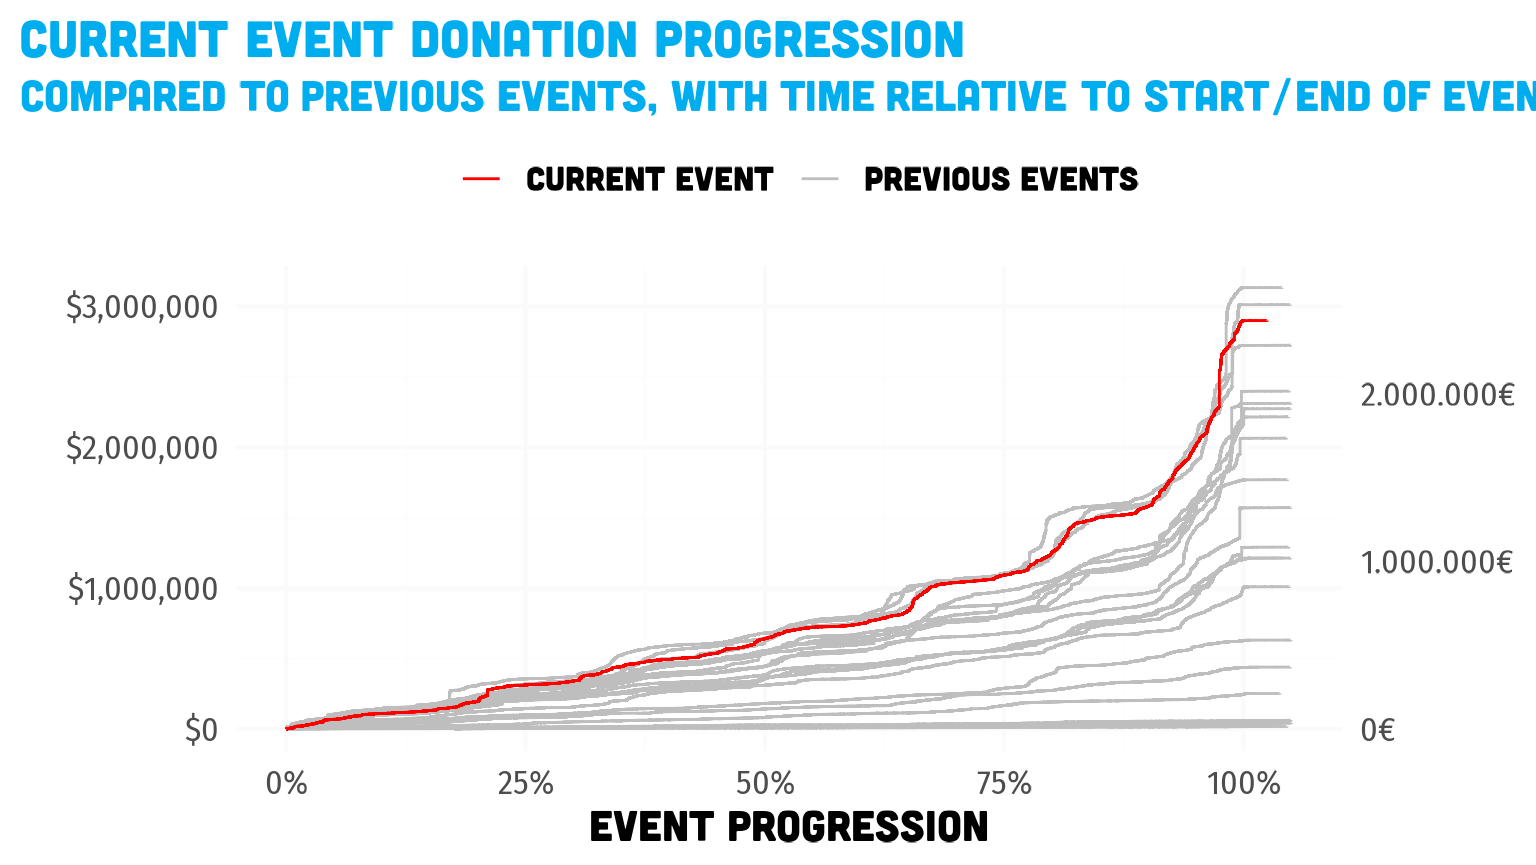
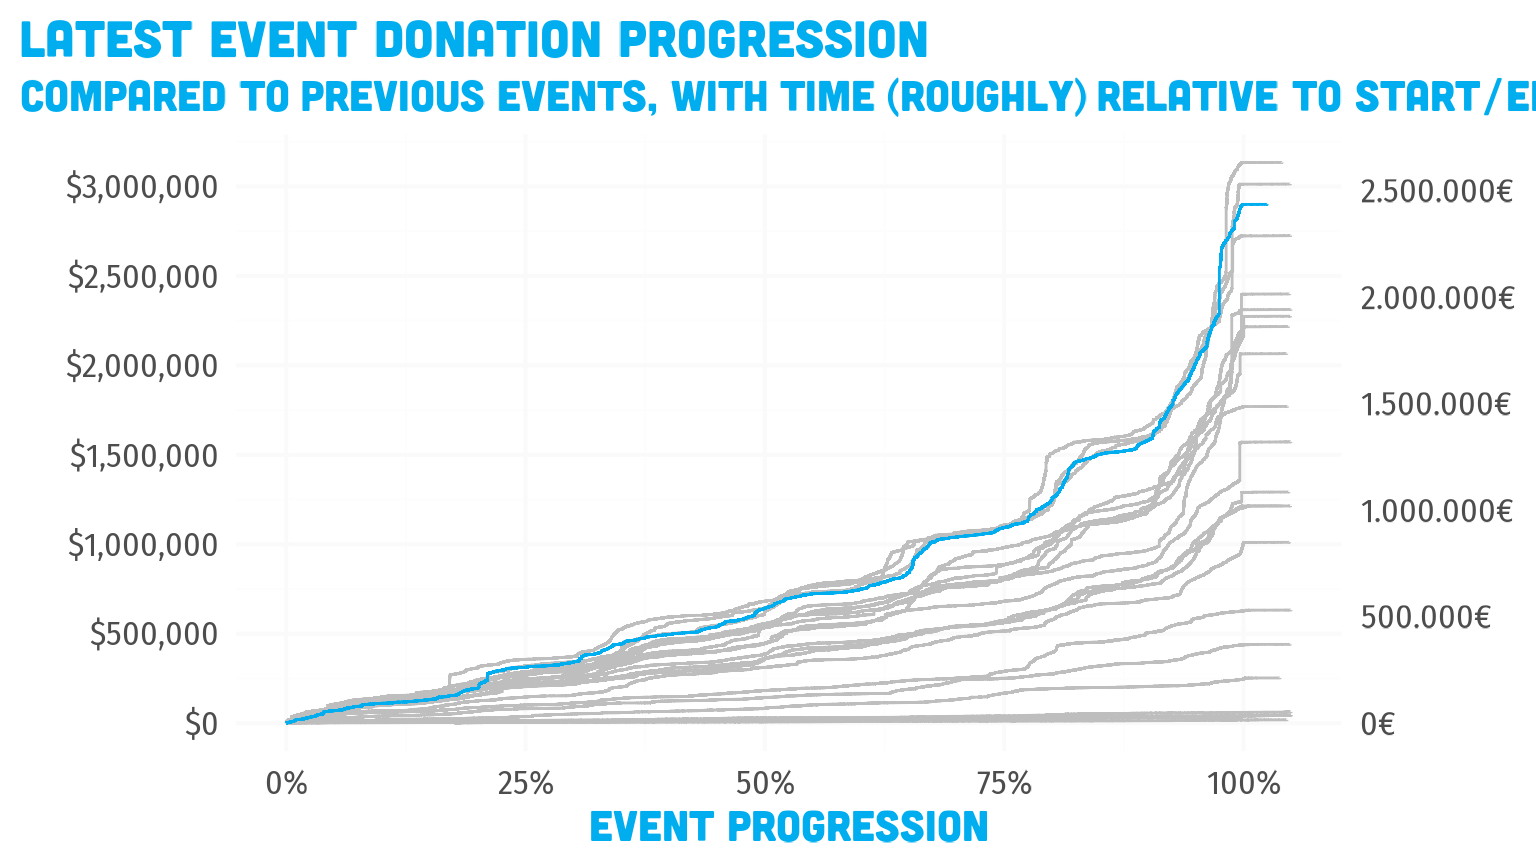
Built site for gdqdonations: 0.0.0.9000@09fa1af

diff --git a/articles/articles/all-events.html b/articles/articles/all-events.html
@@ -653,6 +653,7 @@ Finale The End
   <span class="fu"><a href="https://ggplot2.tidyverse.org/reference/ggplot.html">ggplot</a></span><span class="op">(</span><span class="fu"><a href="https://ggplot2.tidyverse.org/reference/aes.html">aes</a></span><span class="op">(</span>y <span class="op">=</span> <span class="fl">0</span>, xmin <span class="op">=</span> <span class="va">first</span>, xmax <span class="op">=</span> <span class="va">last</span>, fill <span class="op">=</span> <span class="va">type</span>, color <span class="op">=</span> <span class="va">type</span><span class="op">)</span><span class="op">)</span> <span class="op">+</span>
   <span class="fu"><a href="https://ggplot2.tidyverse.org/reference/facet_wrap.html">facet_wrap</a></span><span class="op">(</span>facets <span class="op">=</span> <span class="fu"><a href="https://dplyr.tidyverse.org/reference/vars.html">vars</a></span><span class="op">(</span><span class="va">event</span><span class="op">)</span>, scales <span class="op">=</span> <span class="st">"free"</span>, nrow <span class="op">=</span> <span class="fl">4</span><span class="op">)</span> <span class="op">+</span>
   <span class="fu"><a href="https://ggplot2.tidyverse.org/reference/geom_errorbarh.html">geom_errorbarh</a></span><span class="op">(</span>height <span class="op">=</span> <span class="fl">.5</span>, size <span class="op">=</span> <span class="fl">1.5</span>, alpha <span class="op">=</span> <span class="fl">2</span><span class="op">/</span><span class="fl">3</span><span class="op">)</span> <span class="op">+</span>
+  <span class="fu"><a href="https://ggplot2.tidyverse.org/reference/scale_date.html">scale_x_datetime</a></span><span class="op">(</span>breaks <span class="op">=</span> <span class="fu">scales</span><span class="fu">::</span><span class="fu"><a href="https://scales.r-lib.org/reference/breaks_pretty.html">pretty_breaks</a></span><span class="op">(</span>n <span class="op">=</span> <span class="fl">3</span><span class="op">)</span><span class="op">)</span> <span class="op">+</span>
   <span class="fu"><a href="https://ggplot2.tidyverse.org/reference/scale_continuous.html">scale_y_continuous</a></span><span class="op">(</span>limits <span class="op">=</span> <span class="fu"><a href="https://rdrr.io/r/base/c.html">c</a></span><span class="op">(</span><span class="op">-</span><span class="fl">1</span>, <span class="fl">1</span><span class="op">)</span><span class="op">)</span> <span class="op">+</span>
   <span class="fu"><a href="https://ggplot2.tidyverse.org/reference/scale_brewer.html">scale_color_brewer</a></span><span class="op">(</span>palette <span class="op">=</span> <span class="st">"Dark2"</span>, guide <span class="op">=</span> <span class="st">"none"</span><span class="op">)</span> <span class="op">+</span>
   <span class="fu"><a href="https://ggplot2.tidyverse.org/reference/labs.html">labs</a></span><span class="op">(</span>
@@ -661,11 +662,12 @@ Finale The End
     x <span class="op">=</span> <span class="st">"Date"</span>
   <span class="op">)</span> <span class="op">+</span>
   <span class="fu"><a href="../../reference/gdq-plotting.html">theme_gdq</a></span><span class="op">(</span>
+    axis.text.x <span class="op">=</span> <span class="fu"><a href="https://ggplot2.tidyverse.org/reference/element.html">element_text</a></span><span class="op">(</span>size <span class="op">=</span> <span class="fu"><a href="https://ggplot2.tidyverse.org/reference/element.html">rel</a></span><span class="op">(</span><span class="fl">.8</span><span class="op">)</span><span class="op">)</span>,
     axis.line.y <span class="op">=</span> <span class="fu"><a href="https://ggplot2.tidyverse.org/reference/element.html">element_blank</a></span><span class="op">(</span><span class="op">)</span>,
     axis.text.y <span class="op">=</span> <span class="fu"><a href="https://ggplot2.tidyverse.org/reference/element.html">element_blank</a></span><span class="op">(</span><span class="op">)</span>,
     axis.title.y <span class="op">=</span> <span class="fu"><a href="https://ggplot2.tidyverse.org/reference/element.html">element_blank</a></span><span class="op">(</span><span class="op">)</span>
   <span class="op">)</span></code></pre></div>
-<p><img src="all-events_files/figure-html/gdq-firstlast-run-donation-1.png" width="768" style="display: block; margin: auto;"></p>
+<p><img src="all-events_files/figure-html/gdq-firstlast-run-donation-1.png" width="864" style="display: block; margin: auto;"></p>
 <p>Trying to reasonably determine start and end of the main event period to scale donation progress relatively.</p>
 <div class="sourceCode" id="cb6"><pre class="downlit sourceCode r">
 <code class="sourceCode R"><span class="va">donations</span> <span class="op">%&gt;%</span>
@@ -679,15 +681,16 @@ Finale The End
   <span class="fu"><a href="https://ggplot2.tidyverse.org/reference/ggplot.html">ggplot</a></span><span class="op">(</span><span class="fu"><a href="https://ggplot2.tidyverse.org/reference/aes.html">aes</a></span><span class="op">(</span>x <span class="op">=</span> <span class="va">time_rel</span>, y <span class="op">=</span> <span class="va">amount_total</span>, color <span class="op">=</span> <span class="va">highlight</span>, group <span class="op">=</span> <span class="va">event</span><span class="op">)</span><span class="op">)</span> <span class="op">+</span>
   <span class="fu"><a href="https://ggplot2.tidyverse.org/reference/geom_path.html">geom_step</a></span><span class="op">(</span><span class="op">)</span> <span class="op">+</span>
   <span class="fu"><a href="https://ggplot2.tidyverse.org/reference/scale_continuous.html">scale_x_continuous</a></span><span class="op">(</span>labels <span class="op">=</span> <span class="fu">scales</span><span class="fu">::</span><span class="fu"><a href="https://scales.r-lib.org/reference/label_percent.html">percent_format</a></span><span class="op">(</span><span class="op">)</span><span class="op">)</span> <span class="op">+</span>
-  <span class="fu"><a href="../../reference/gdq-plotting.html">scale_y_currency</a></span><span class="op">(</span><span class="op">)</span> <span class="op">+</span>
+  <span class="fu"><a href="../../reference/gdq-plotting.html">scale_y_currency</a></span><span class="op">(</span>breaks <span class="op">=</span> <span class="fu">scales</span><span class="fu">::</span><span class="fu"><a href="https://scales.r-lib.org/reference/breaks_pretty.html">pretty_breaks</a></span><span class="op">(</span><span class="op">)</span><span class="op">)</span> <span class="op">+</span>
   <span class="fu"><a href="https://ggplot2.tidyverse.org/reference/scale_manual.html">scale_color_manual</a></span><span class="op">(</span>
-    values <span class="op">=</span> <span class="fu"><a href="https://rdrr.io/r/base/c.html">c</a></span><span class="op">(</span><span class="st">"TRUE"</span> <span class="op">=</span> <span class="st">"red"</span>, <span class="st">"FALSE"</span> <span class="op">=</span> <span class="st">"gray"</span><span class="op">)</span>, 
-    labels <span class="op">=</span> <span class="fu"><a href="https://rdrr.io/r/base/c.html">c</a></span><span class="op">(</span><span class="st">"TRUE"</span> <span class="op">=</span> <span class="st">"Current Event"</span>, <span class="st">"FALSE"</span> <span class="op">=</span> <span class="st">"Previous events"</span><span class="op">)</span>,
-    name <span class="op">=</span> <span class="st">""</span>
+    values <span class="op">=</span> <span class="fu"><a href="https://rdrr.io/r/base/c.html">c</a></span><span class="op">(</span><span class="st">"TRUE"</span> <span class="op">=</span> <span class="va">gdq_pal</span><span class="op">[[</span><span class="st">"GDQ"</span><span class="op">]</span><span class="op">]</span>, <span class="st">"FALSE"</span> <span class="op">=</span> <span class="st">"gray"</span><span class="op">)</span>, 
+    labels <span class="op">=</span> <span class="fu"><a href="https://rdrr.io/r/base/c.html">c</a></span><span class="op">(</span><span class="st">"TRUE"</span> <span class="op">=</span> <span class="fu"><a href="../../reference/latest_event.html">latest_event</a></span><span class="op">(</span><span class="op">)</span>, <span class="st">"FALSE"</span> <span class="op">=</span> <span class="st">"Previous events"</span><span class="op">)</span>,
+    name <span class="op">=</span> <span class="st">""</span>,
+    guide <span class="op">=</span> <span class="st">"none"</span>
   <span class="op">)</span> <span class="op">+</span>
   <span class="fu"><a href="https://ggplot2.tidyverse.org/reference/labs.html">labs</a></span><span class="op">(</span>
-    title <span class="op">=</span> <span class="st">"Current event donation progression"</span>,
-    subtitle <span class="op">=</span> <span class="st">"Compared to previous events, with time relative to start/end of event"</span>,
+    title <span class="op">=</span> <span class="st">"Latest event donation progression"</span>,
+    subtitle <span class="op">=</span> <span class="st">"Compared to previous events, with time (roughly) relative to start/end of event"</span>,
     y <span class="op">=</span> <span class="st">"Cumulative donation total"</span>,
     x <span class="op">=</span> <span class="st">"Event Progression"</span>
   <span class="op">)</span> <span class="op">+</span>

diff --git a/reference/gdq_pal.html b/reference/gdq_pal.html
@@ -132,12 +132,12 @@
 
     <h2 class="hasAnchor" id="format"><a class="anchor" href="#format"></a>Format</h2>
 
-    <p>An object of class <code>character</code> of length 2.</p>
+    <p>An object of class <code>character</code> of length 3.</p>
 
     <h2 class="hasAnchor" id="examples"><a class="anchor" href="#examples"></a>Examples</h2>
     <pre class="examples"><div class='input'><span class='va'>gdq_pal</span>
-</div><div class='output co'>#&gt;      AGDQ      SGDQ 
-#&gt; "#1D3461" "#A30000" </div><div class='input'><span class='va'>gdq_pal</span><span class='op'>[[</span><span class='st'>"AGDQ"</span><span class='op'>]</span><span class='op'>]</span>
+</div><div class='output co'>#&gt;       GDQ      AGDQ      SGDQ 
+#&gt; "#00AEEF" "#1D3461" "#A30000" </div><div class='input'><span class='va'>gdq_pal</span><span class='op'>[[</span><span class='st'>"AGDQ"</span><span class='op'>]</span><span class='op'>]</span>
 </div><div class='output co'>#&gt; [1] "#1D3461"</div></pre>
   </div>
   <div class="col-md-3 hidden-xs hidden-sm" id="pkgdown-sidebar">
